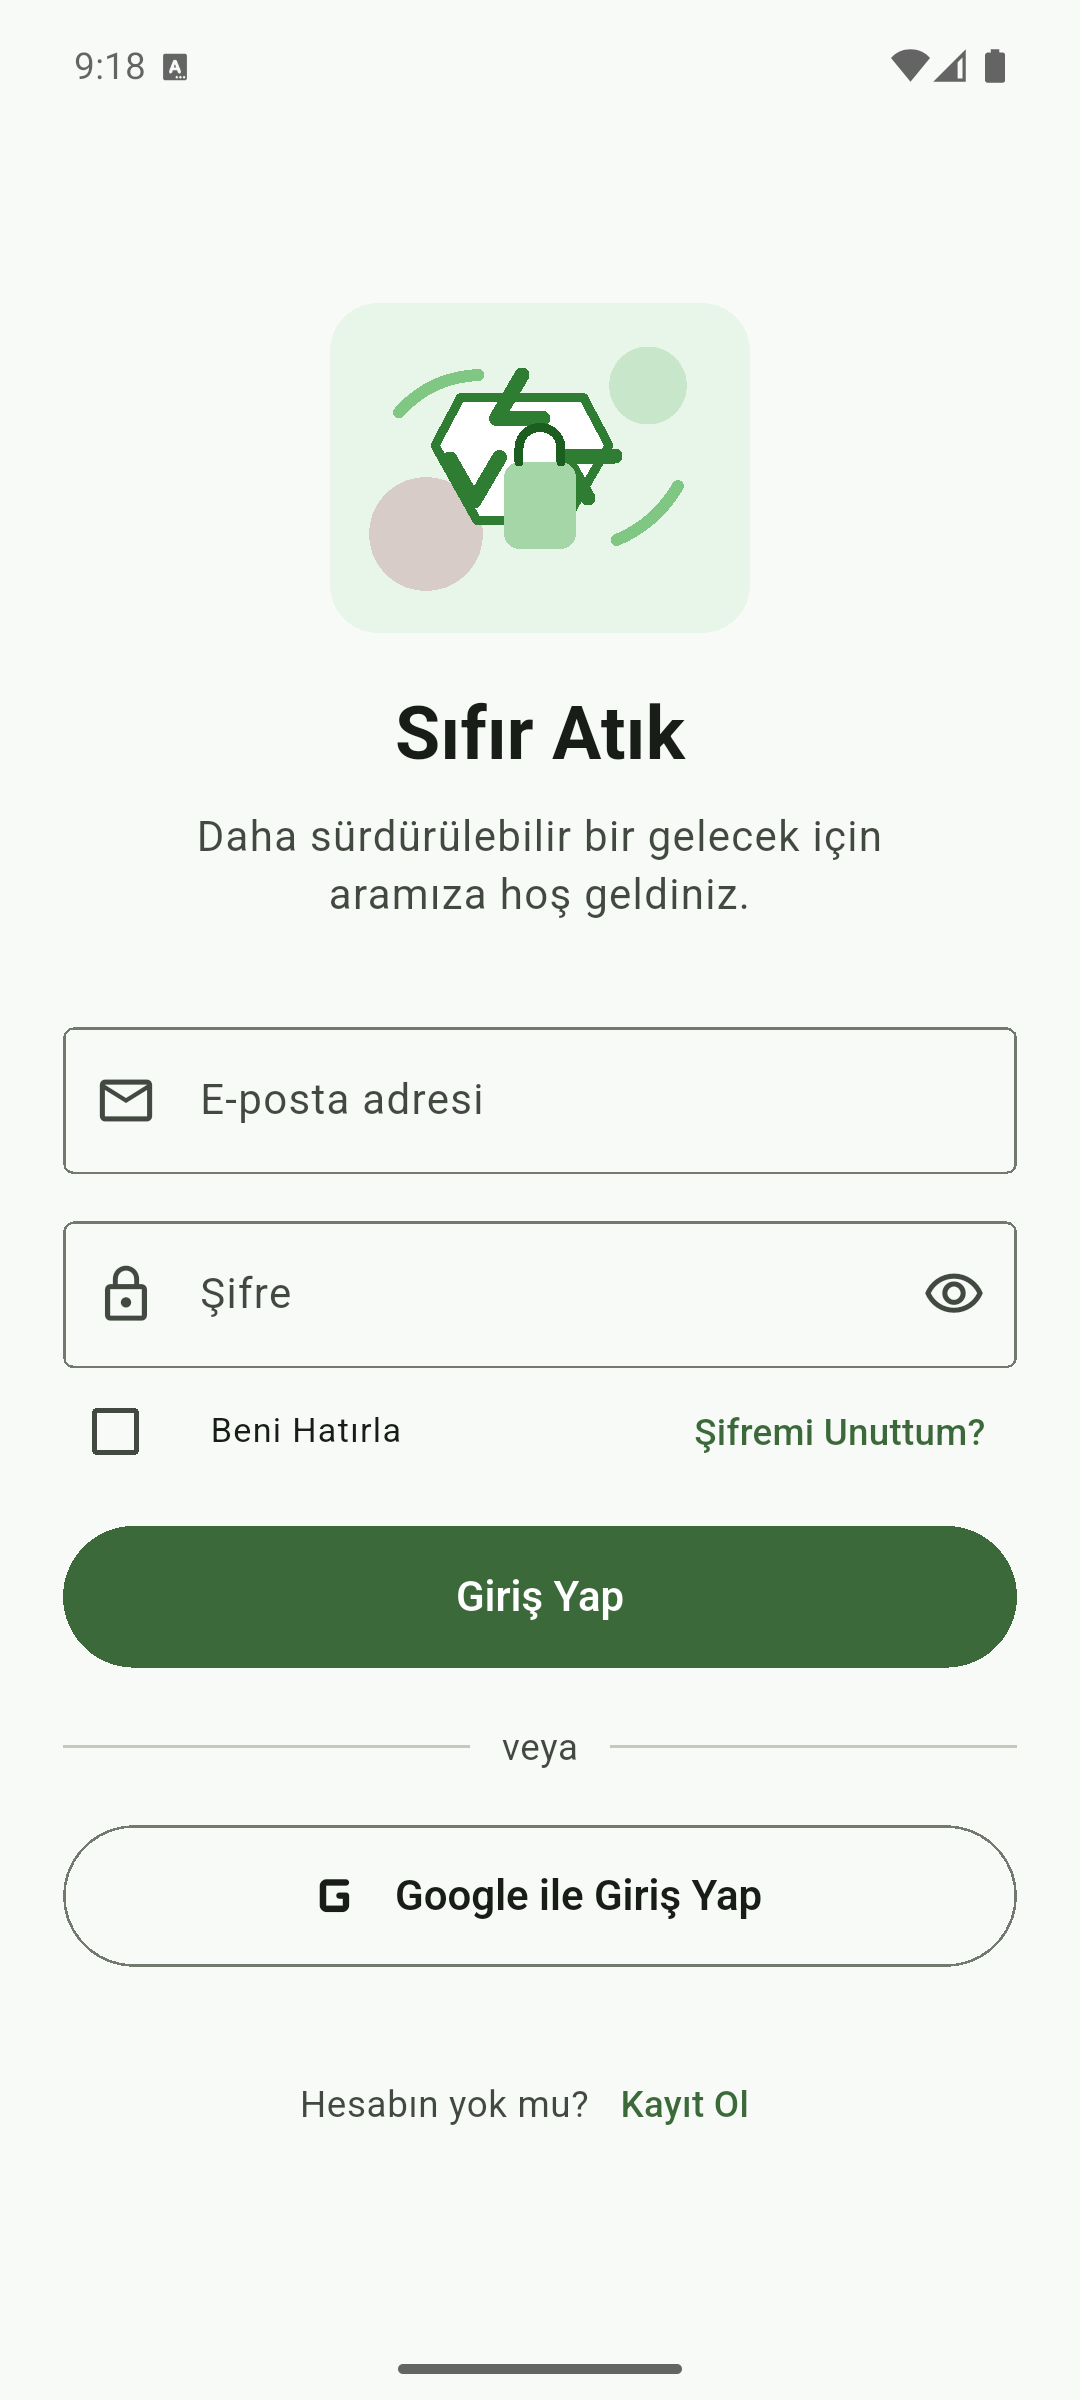
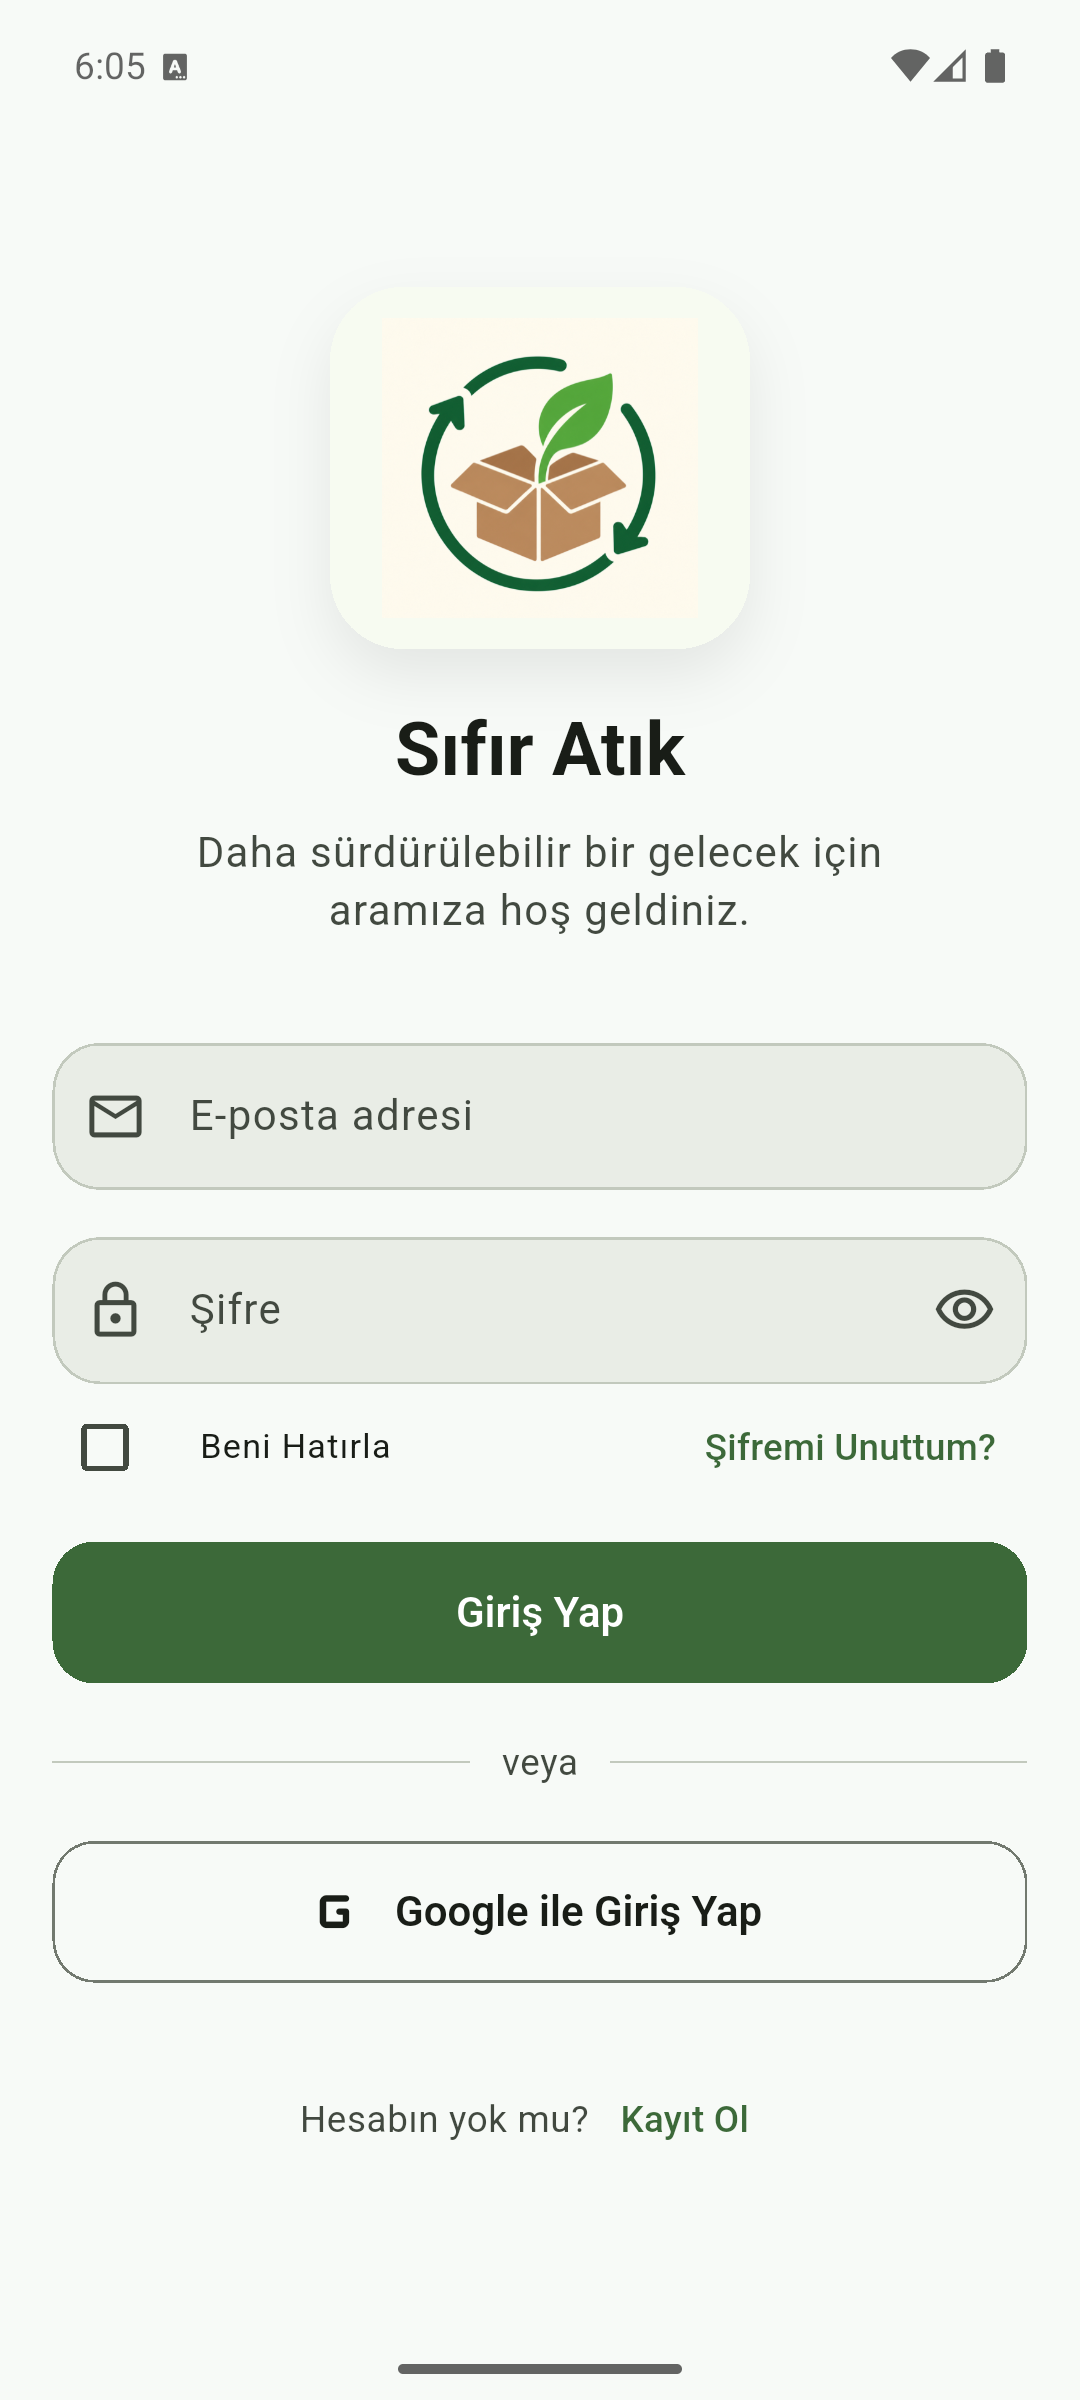
README ve ekran görüntülerini yeniledim

diff --git a/README.md b/README.md
@@ -1,68 +1,76 @@
 # Sıfır Atık
 
 Sıfır Atık, kullanılabilir durumdaki atıkların ilan olarak paylaşılabildiği bir
-Flutter mobil uygulamasıdır. Uygulamadaki temel amaç; karton, cam, plastik veya
-elektronik gibi değerlendirilebilir atıkları ihtiyaç duyan kişilerle daha kolay
-buluşturmaktır.
+Flutter mobil uygulamasıdır. Projede temel amaç; karton, cam, plastik veya
+elektronik gibi değerlendirilebilir atıkların ihtiyaç duyan kişiler tarafından
+daha kolay bulunmasını sağlamaktır.
 
-Projeyi şu anda Android odaklı olarak geliştirdim ve denemelerimi Android
-emülatör üzerinde yaptım. Flutter altyapısı sayesinde proje iOS klasörünü de
-içeriyor; ancak iOS tarafını ayrıca test etmedim.
+Bu projeyi Android odaklı geliştirdim ve denemelerimi Android emülatör üzerinde
+yaptım. Flutter projesi olduğu için iOS klasörü de duruyor; fakat iOS tarafını
+ayrıca test etmedim.
 
-## Projede Neler Var?
+## Projenin Amacı
 
-### Kullanıcı işlemleri
+Uygulamada kullanıcılar ellerindeki atıkları ilan olarak paylaşabiliyor. Başka
+bir kullanıcı ilana talep gönderebiliyor. İlan sahibi talebi kabul ederse iletişim
+bilgisi açılıyor ve kullanıcılar arama ya da WhatsApp üzerinden iletişim
+kurabiliyor.
+
+Bu şekilde uygulama sadece ilanların listelendiği bir ekran olmaktan çıkıp, ilan
+oluşturma ve talep takibi olan daha tamamlanmış bir akışa dönüşüyor.
+
+## Uygulamada Neler Var?
+
+### Giriş ve kullanıcı akışı
 
 - E-posta ve şifre ile kayıt olma / giriş yapma
 - Google ile giriş desteği
-- Şifre sıfırlama akışı
-- Uygulama açıldığında mevcut oturumu kontrol etme
+- Şifre sıfırlama ekranı
+- Uygulama açıldığında oturum kontrolü
 - Çıkış yapma
 
-### İlan işlemleri
+### İlan akışı
 
 - Atık ilanı oluşturma
 - İlanlara fotoğraf ekleme
-- İlan fotoğrafını güncelleme veya kaldırma
-- Kendi ilanlarını görme, düzenleme ve silme
-- İlanları kategoriye göre filtreleme
-- İlanlarda başlık, kategori ve konuma göre arama yapma
-- İlan oluştururken şehir ve ilçeyi arayarak seçme
-- İlan kartlarında `Miktar • Konum` bilgisini standart şekilde gösterme
+- Fotoğrafı güncelleme veya kaldırma
+- Şehir ve ilçeyi arayarak seçme
+- İlanları listeleme ve detayını görme
+- Kategoriye göre filtreleme
+- Başlık, kategori ve konuma göre arama yapma
+- Kullanıcının kendi ilanlarını düzenlemesi ve silmesi
 
-### Talep işlemleri
+### Talep akışı
 
-- Başka kullanıcıların ilanlarına talep gönderme
+- Başka kullanıcının ilanına talep gönderme
 - Kullanıcının kendi ilanına talep göndermesini engelleme
-- Gönderilen talepleri `Taleplerim` ekranında takip etme
-- İlan sahibinin gelen talepleri kabul veya reddetmesi
-- Talep durumunu `Beklemede`, `Kabul edildi` veya `Reddedildi` olarak gösterme
-- Talep kabul edilince iletişim bilgisini açma
-- Kabul edilen taleplerde arama veya WhatsApp üzerinden mesaj gönderme
+- Gönderilen talepleri takip etme
+- İlan sahibinin talebi kabul veya reddetmesi
+- Talep durumunu beklemede, kabul edildi veya reddedildi olarak gösterme
+- Kabul edilen talepte telefon bilgisini açma
+- Arama ve WhatsApp üzerinden iletişim kurma
 
-### Firebase kullanımı
+### Veritabanı ve dosya tarafı
 
-- Firebase Authentication ile kullanıcı girişi
-- Firestore ile ilan ve talep verilerini kaydetme
+- Firebase Authentication ile kullanıcı işlemleri
+- Cloud Firestore ile ilan ve talep verilerini tutma
 - Firebase Storage ile ilan fotoğraflarını saklama
-- Firestore güvenlik kurallarıyla ilan sahibi ve talep sahibi kontrolleri
-- Storage kurallarıyla fotoğraf yükleme ve silme izinleri
+- Firestore güvenlik kurallarıyla ilan ve talep sahipliğini kontrol etme
+- Storage kurallarıyla fotoğraf yükleme ve silme izinlerini sınırlandırma
 
 ## Ekran Görüntüleri
 
-Uygulamanın temel akışını gösteren bazı ekranlar:
-
 | Giriş | Ana ekran |
 | --- | --- |
-| <img src="screenshots/01-login.png" width="230" alt="Giriş ekranı"> | <img src="screenshots/02-home.png" width="230" alt="Ana ekran"> |
+| <img src="screenshots/01-login.png" width="220" alt="Giriş ekranı"> | <img src="screenshots/02-home.png" width="220" alt="Ana ekran"> |
 
 | İlanlar | İlan detayı |
 | --- | --- |
-| <img src="screenshots/03-listings.png" width="230" alt="İlan listesi"> | <img src="screenshots/05-listing-detail.png" width="230" alt="İlan detayı"> |
+| <img src="screenshots/03-listings.png" width="220" alt="İlan listesi"> | <img src="screenshots/05-listing-detail.png" width="220" alt="İlan detayı"> |
 
 | İlan oluşturma | Taleplerim ve iletişim |
 | --- | --- |
-| <img src="screenshots/07-create-listing.png" width="230" alt="İlan oluşturma ekranı"> | <img src="screenshots/09-my-requests.png" width="230" alt="Taleplerim ve iletişim ekranı"> |
+| <img src="screenshots/07-create-listing.png" width="220" alt="İlan oluşturma ekranı"> | <img src="screenshots/09-my-requests.png" width="220" alt="Taleplerim ve iletişim ekranı"> |
 
 ## Kullandığım Teknolojiler
 
@@ -77,10 +85,10 @@ Uygulamanın temel akışını gösteren bazı ekranlar:
 - URL Launcher
 - Shared Preferences
 
-## Kurulum
+## Projeyi Çalıştırma
 
-Projeyi çalıştırmadan önce Flutter SDK ve Android geliştirme ortamının hazır
-olması gerekiyor.
+Flutter SDK ve Android geliştirme ortamı hazır olduktan sonra proje şu komutlarla
+çalıştırılabilir:
 
 ```bash
 flutter pub get
@@ -97,44 +105,41 @@ flutter test
 ## Test Durumu
 
 Projede widget testleri, repository testleri ve Firestore güvenlik kuralı
-testleri bulunuyor. Şu anda testlerde özellikle şu akışları kontrol ediyorum:
+testleri bulunuyor. Testlerde özellikle şu kısımları kontrol ettim:
 
-- Giriş ekranındaki temel alanların görünmesi
-- Şifre gücü ve kayıt formu davranışları
+- Giriş ekranındaki temel alanlar
+- Şifre gücü ve kayıt formu davranışı
 - Ana ekrandaki yönlendirmeler
 - İlan oluşturma formu
-- Fotoğraf kaldırma davranışı
+- Fotoğraf kaldırma işlemi
 - Arama ve kategori filtreleri
 - Kullanıcının kendi ilanına talep gönderememesi
 - Talep başarısız olduğunda yanlış başarı mesajı gösterilmemesi
 - Talep durumlarının ekranda doğru görünmesi
 - İlan düzenleme ve silme işlemlerinin talep verileriyle birlikte güncellenmesi
-- Firestore kurallarında ilan sahibinin doğrulanması
+- Firestore kurallarında ilan sahibi kontrolü
 
 Son kontrolde `flutter analyze` hatasız çalıştı ve `flutter test` ile 28 testin
 tamamı geçti.
 
-## Manuel Olarak Denediğim Akış
+## Manuel Denediğim Akış
 
-Android emülatörde iki farklı kullanıcıyla şu akışı manuel olarak kontrol ettim:
+Android emülatörde iki farklı kullanıcıyla şu akışı manuel olarak denedim:
 
-1. İlk kullanıcıyla giriş yaptım ve telefon numarasını SMS koduyla doğruladım.
-2. Fotoğraflı bir atık ilanı oluşturdum.
-3. İkinci kullanıcıyla giriş yapıp bu ilana talep gönderdim.
-4. İlk kullanıcıyla gelen talebi gördüm ve talebi kabul ettim.
-5. İkinci kullanıcıda talep durumunun güncellendiğini kontrol ettim.
-6. Talep kabul edilince telefon bilgisinin açıldığını, arama ve WhatsApp
-   seçeneklerinin göründüğünü denedim.
+1. İlk kullanıcıyla giriş yaptım.
+2. İlan oluştururken telefon numarasını SMS koduyla doğruladım.
+3. Fotoğraflı bir atık ilanı oluşturdum.
+4. İkinci kullanıcıyla giriş yapıp bu ilana talep gönderdim.
+5. İlk kullanıcıyla gelen talebi kabul ettim.
+6. İkinci kullanıcıda talebin kabul edildiğini ve iletişim alanının açıldığını
+   kontrol ettim.
+7. Arama ve WhatsApp butonlarının göründüğünü denedim.
 
-## Projenin Şu Anki Durumu
+## Şu Anki Durum
 
 Proje şu anda Android emülatörde demo yapılabilecek seviyede. Kullanıcı giriş
-yapabiliyor, ilan oluşturabiliyor, fotoğraf ekleyebiliyor, kendi ilanlarını
-yönetebiliyor ve başka ilanlara talep gönderebiliyor.
+yapabiliyor, ilan oluşturabiliyor, fotoğraf ekleyebiliyor, şehir/ilçe seçebiliyor,
+kendi ilanlarını yönetebiliyor ve başka ilanlara talep gönderebiliyor.
 
-iOS klasörü Flutter projesinin platform altyapısı olarak duruyor. iOS tarafında
-kamera, galeri ve platform ayarları ayrıca test edilmediği için projeyi şu an
-Android odaklı olarak değerlendiriyorum.
-
-Play Store'a çıkarılacak bir sürüm için Android release imzasının ayrıca
-hazırlanması gerekir.
+İleride iOS tarafı ayrıca test edilebilir. Play Store için de debug imza yerine
+ayrı bir release imzası hazırlanması gerekir.
